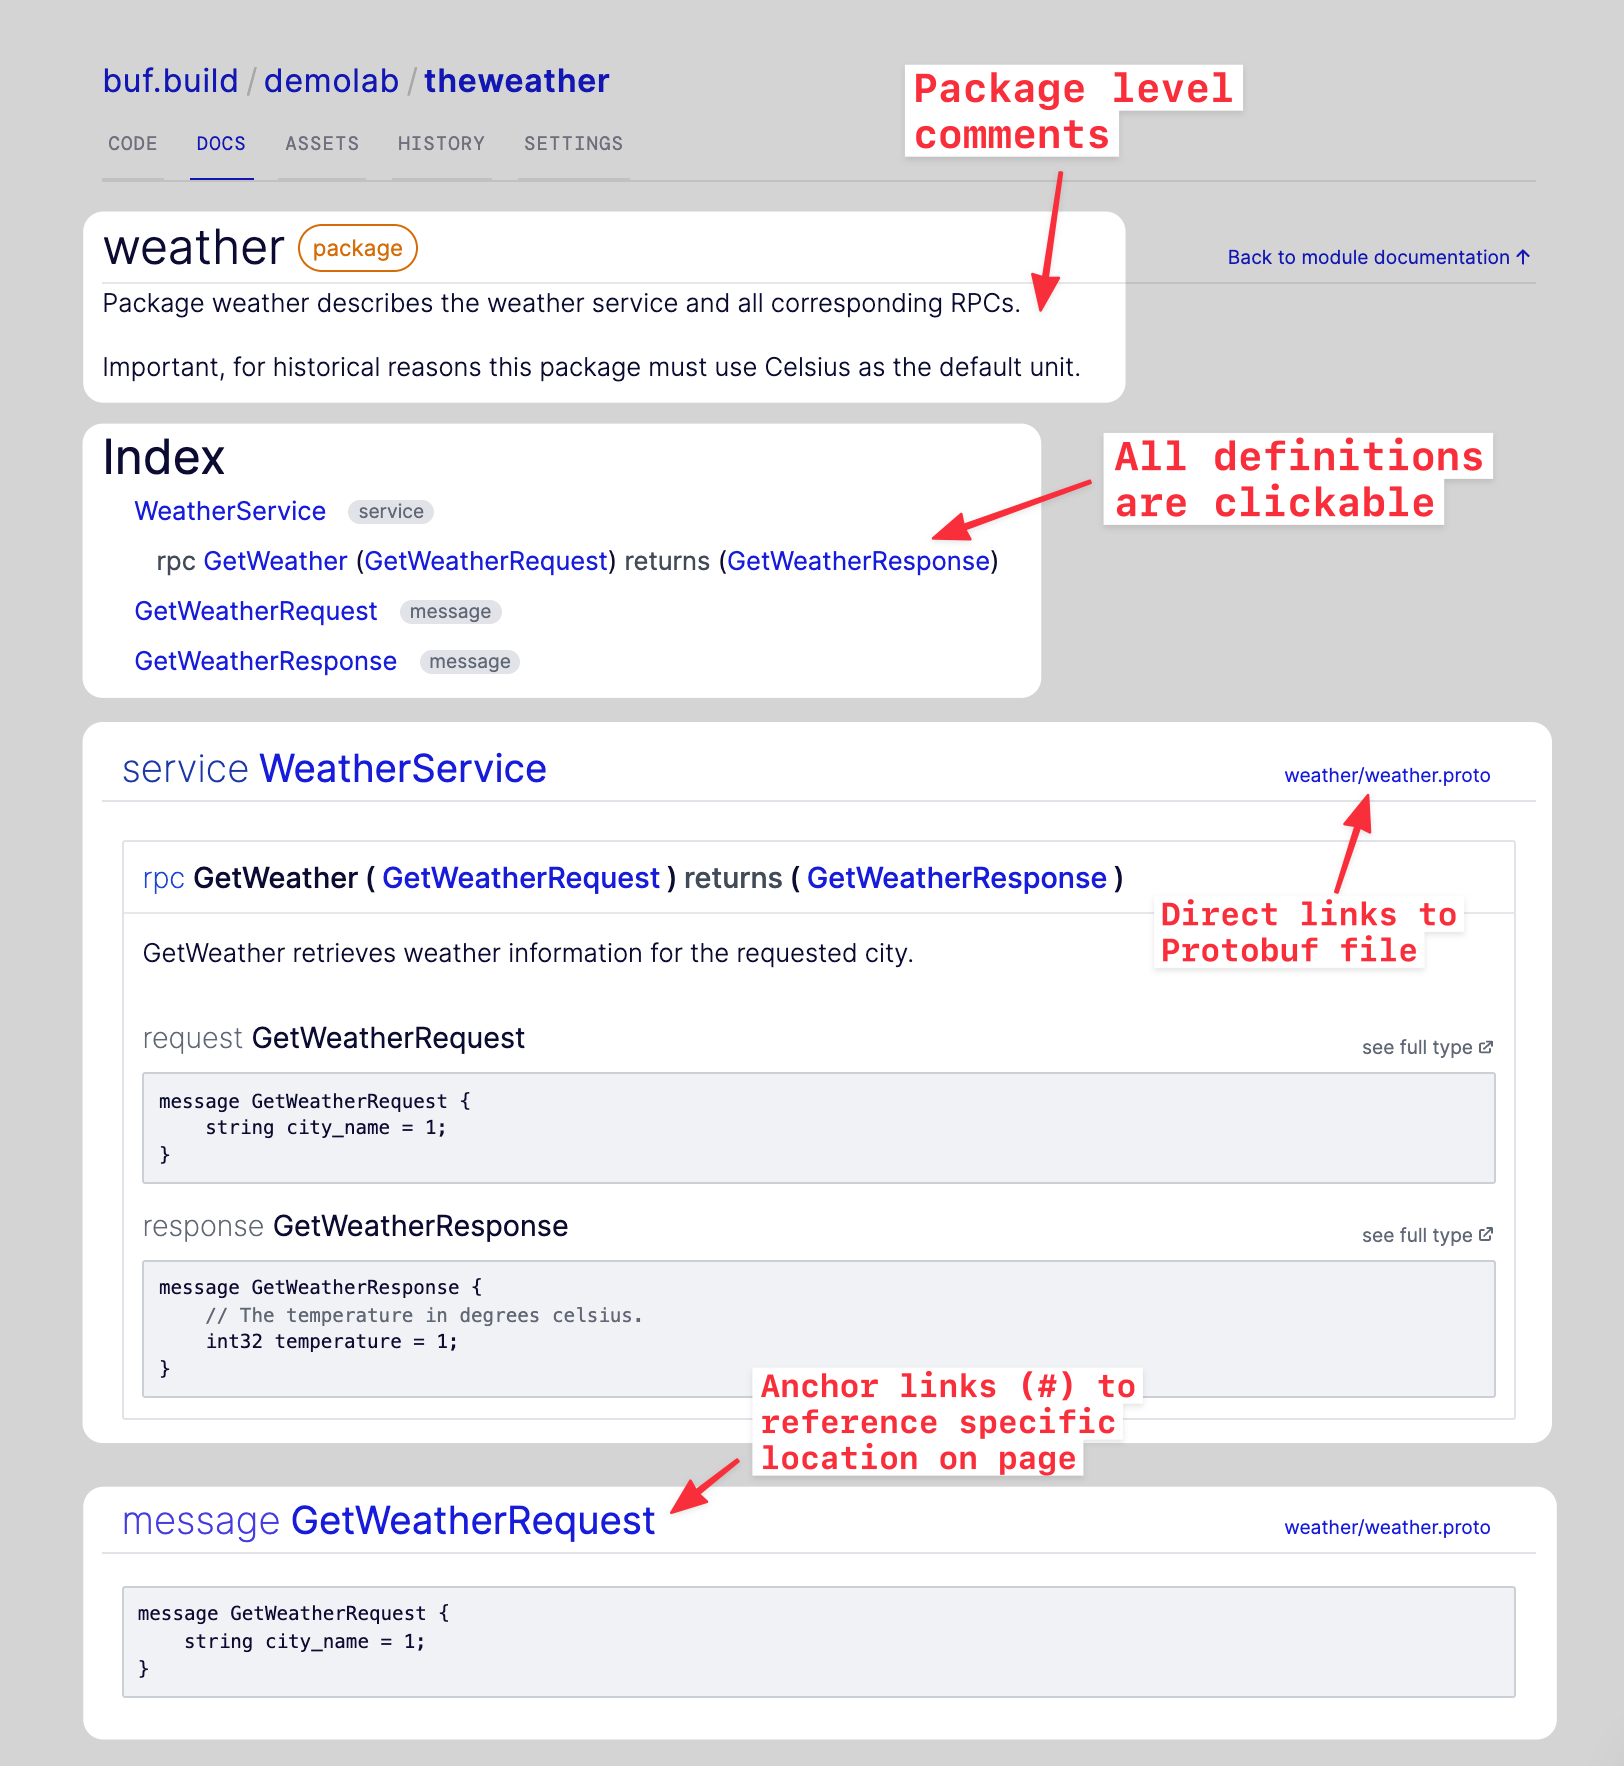
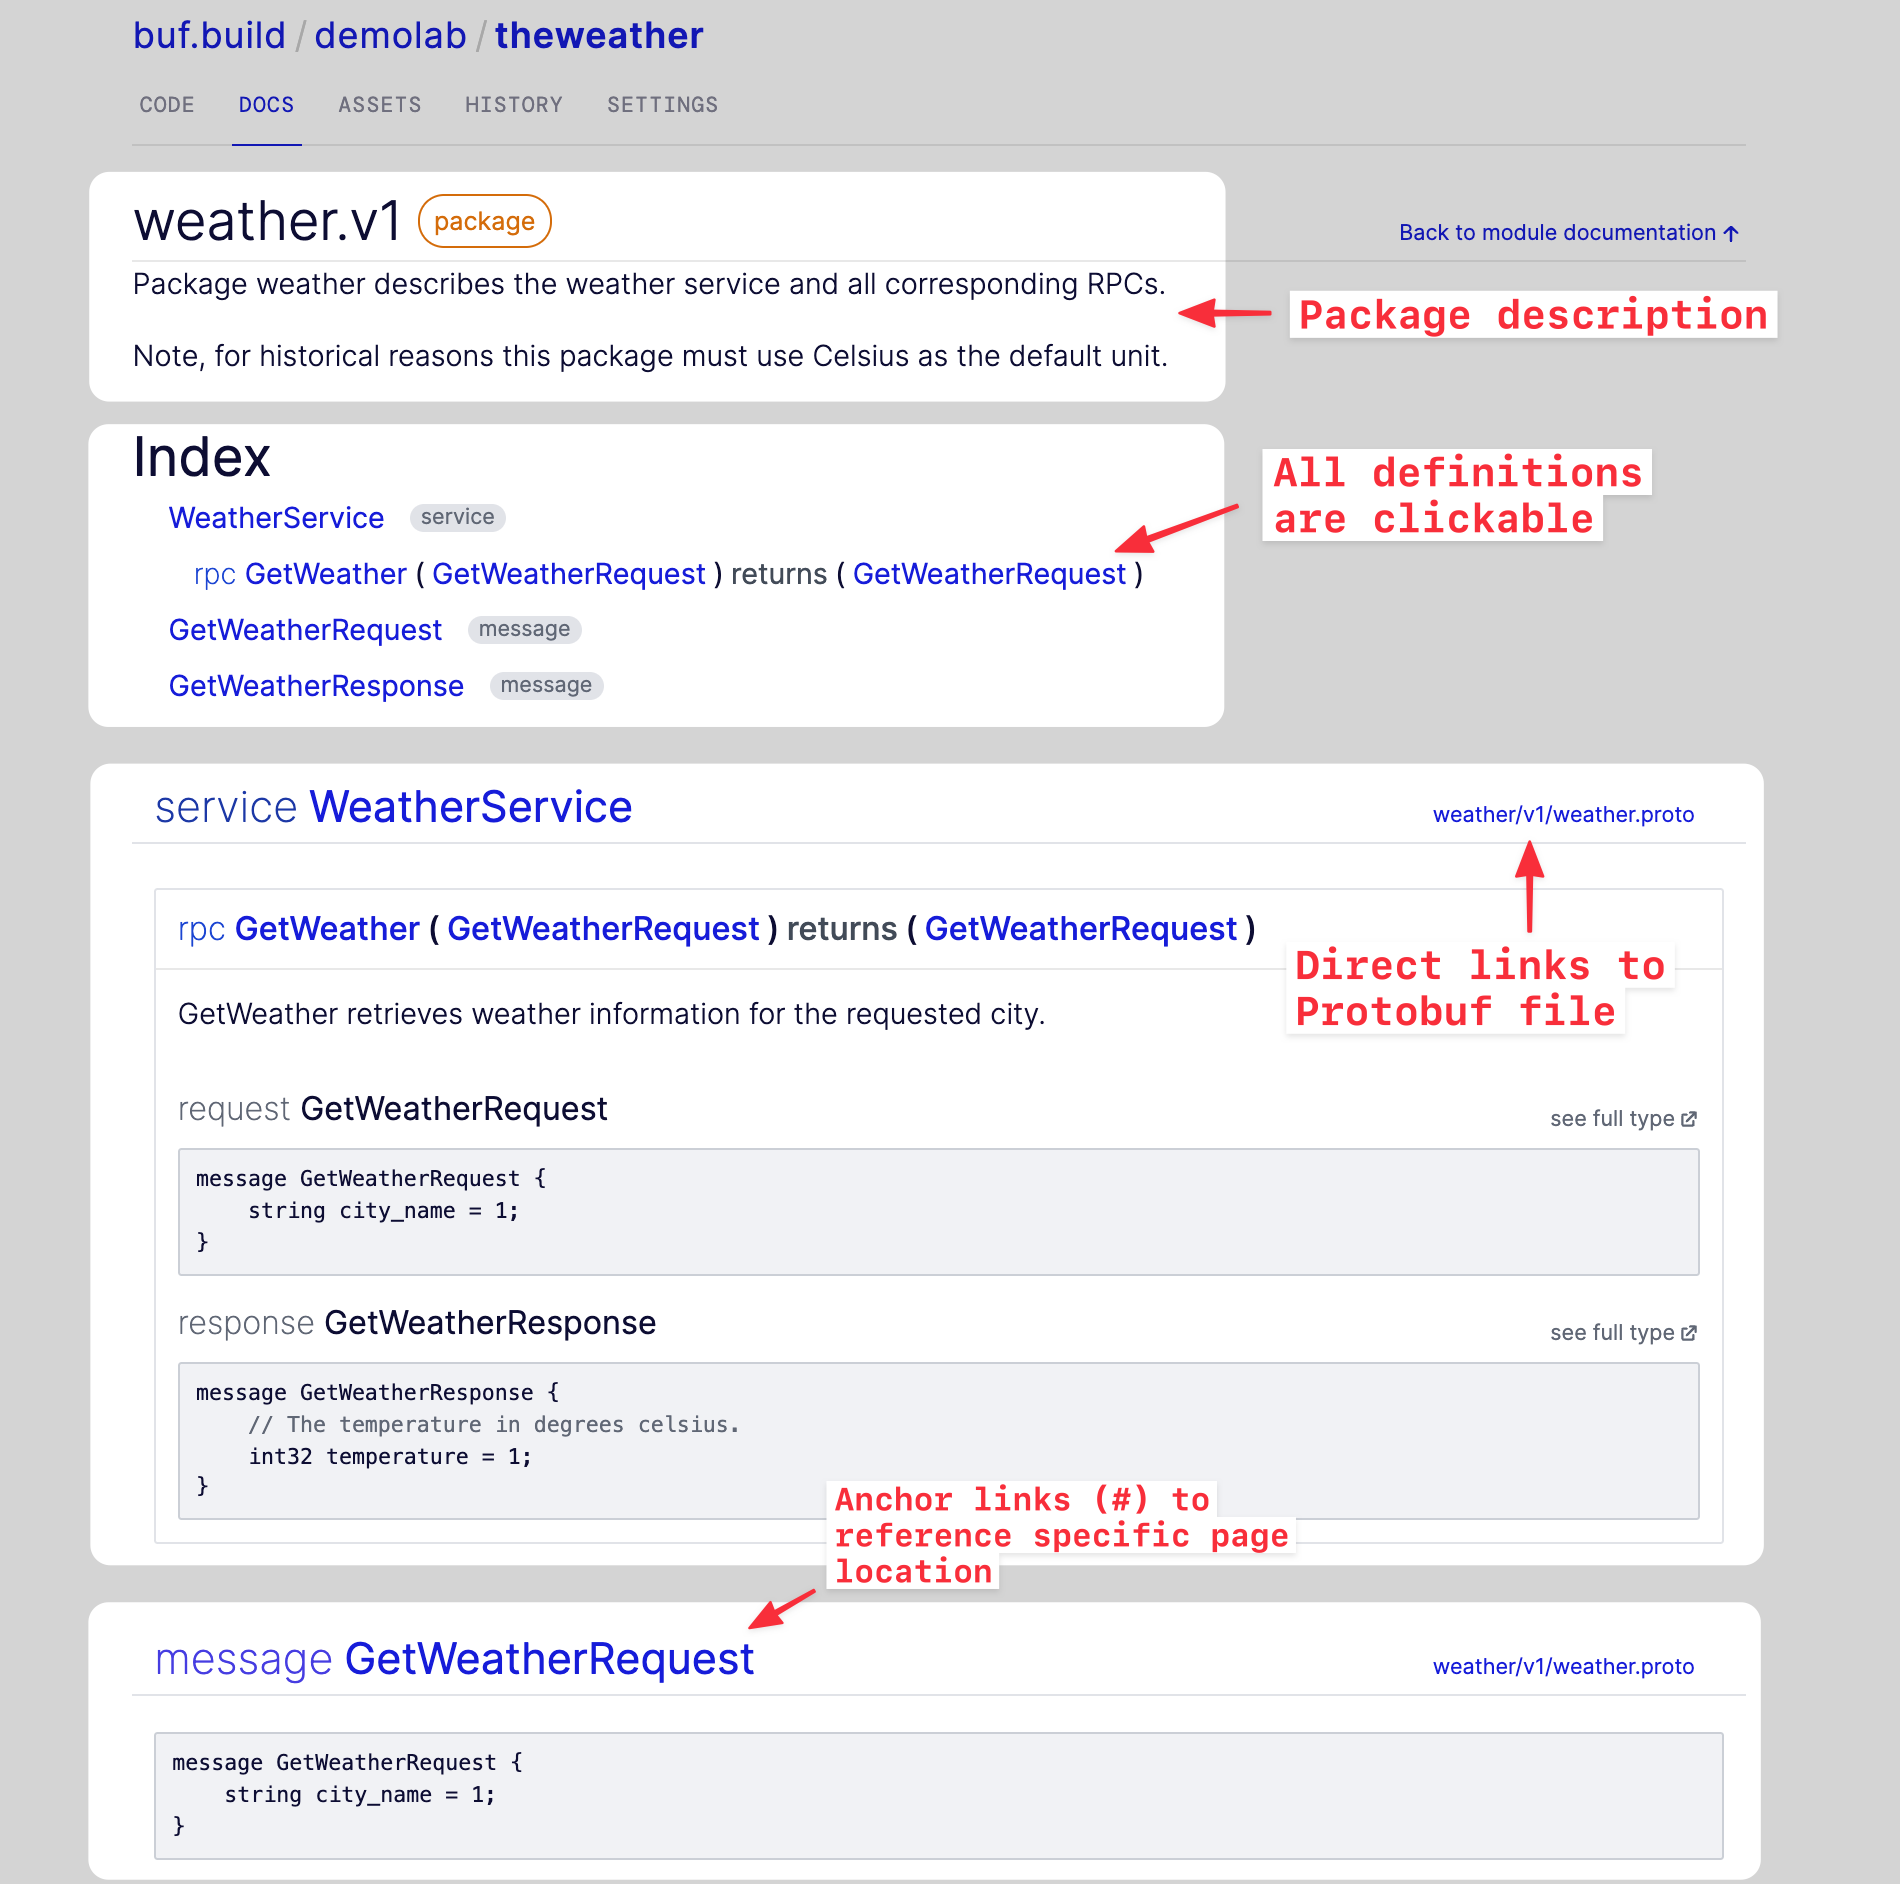
Address comments

Changed region(s): [[0.0308, 0.0, 0.9852, 1.0], [0.0924, 0.5294, 0.5542, 0.7786]]

diff --git a/docs/bsr/documentation.md b/docs/bsr/documentation.md
@@ -50,7 +50,7 @@ syntax = "proto3";
 // 
 // Important, for historical reasons this package 
 // must use Celsius as the default unit.
-package weather;
+package weather.v1;
 ```
 
 <div align="center">
